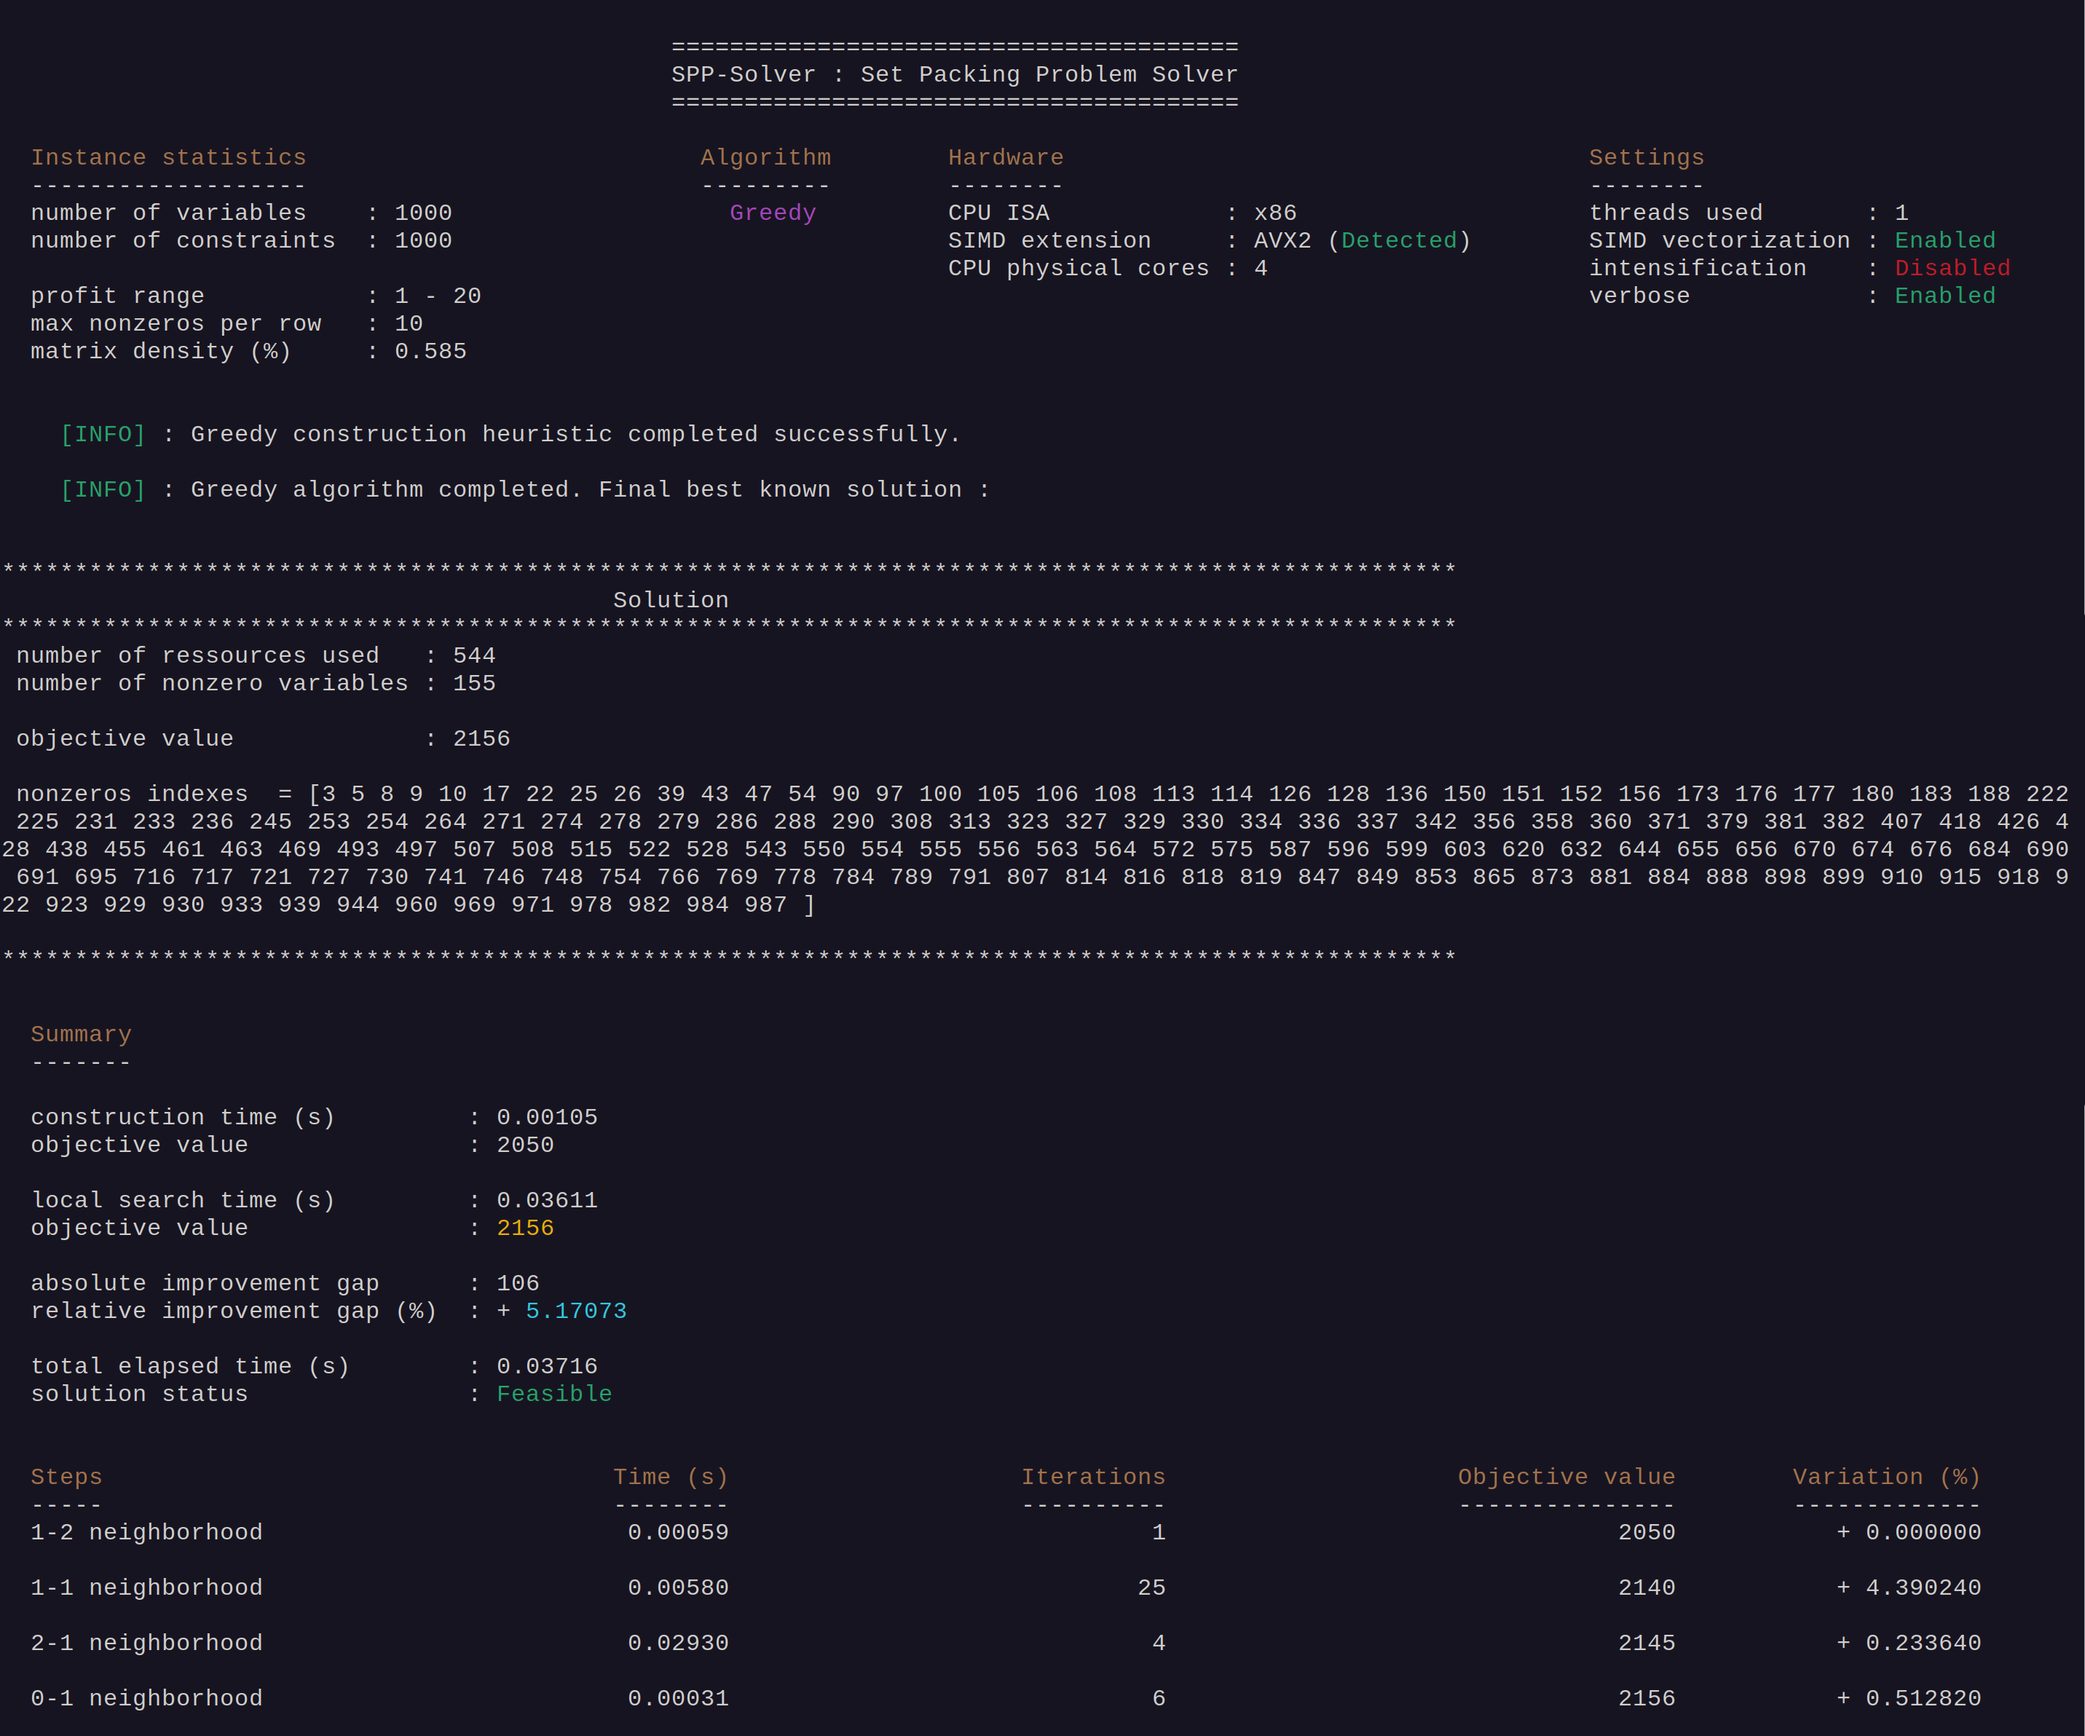
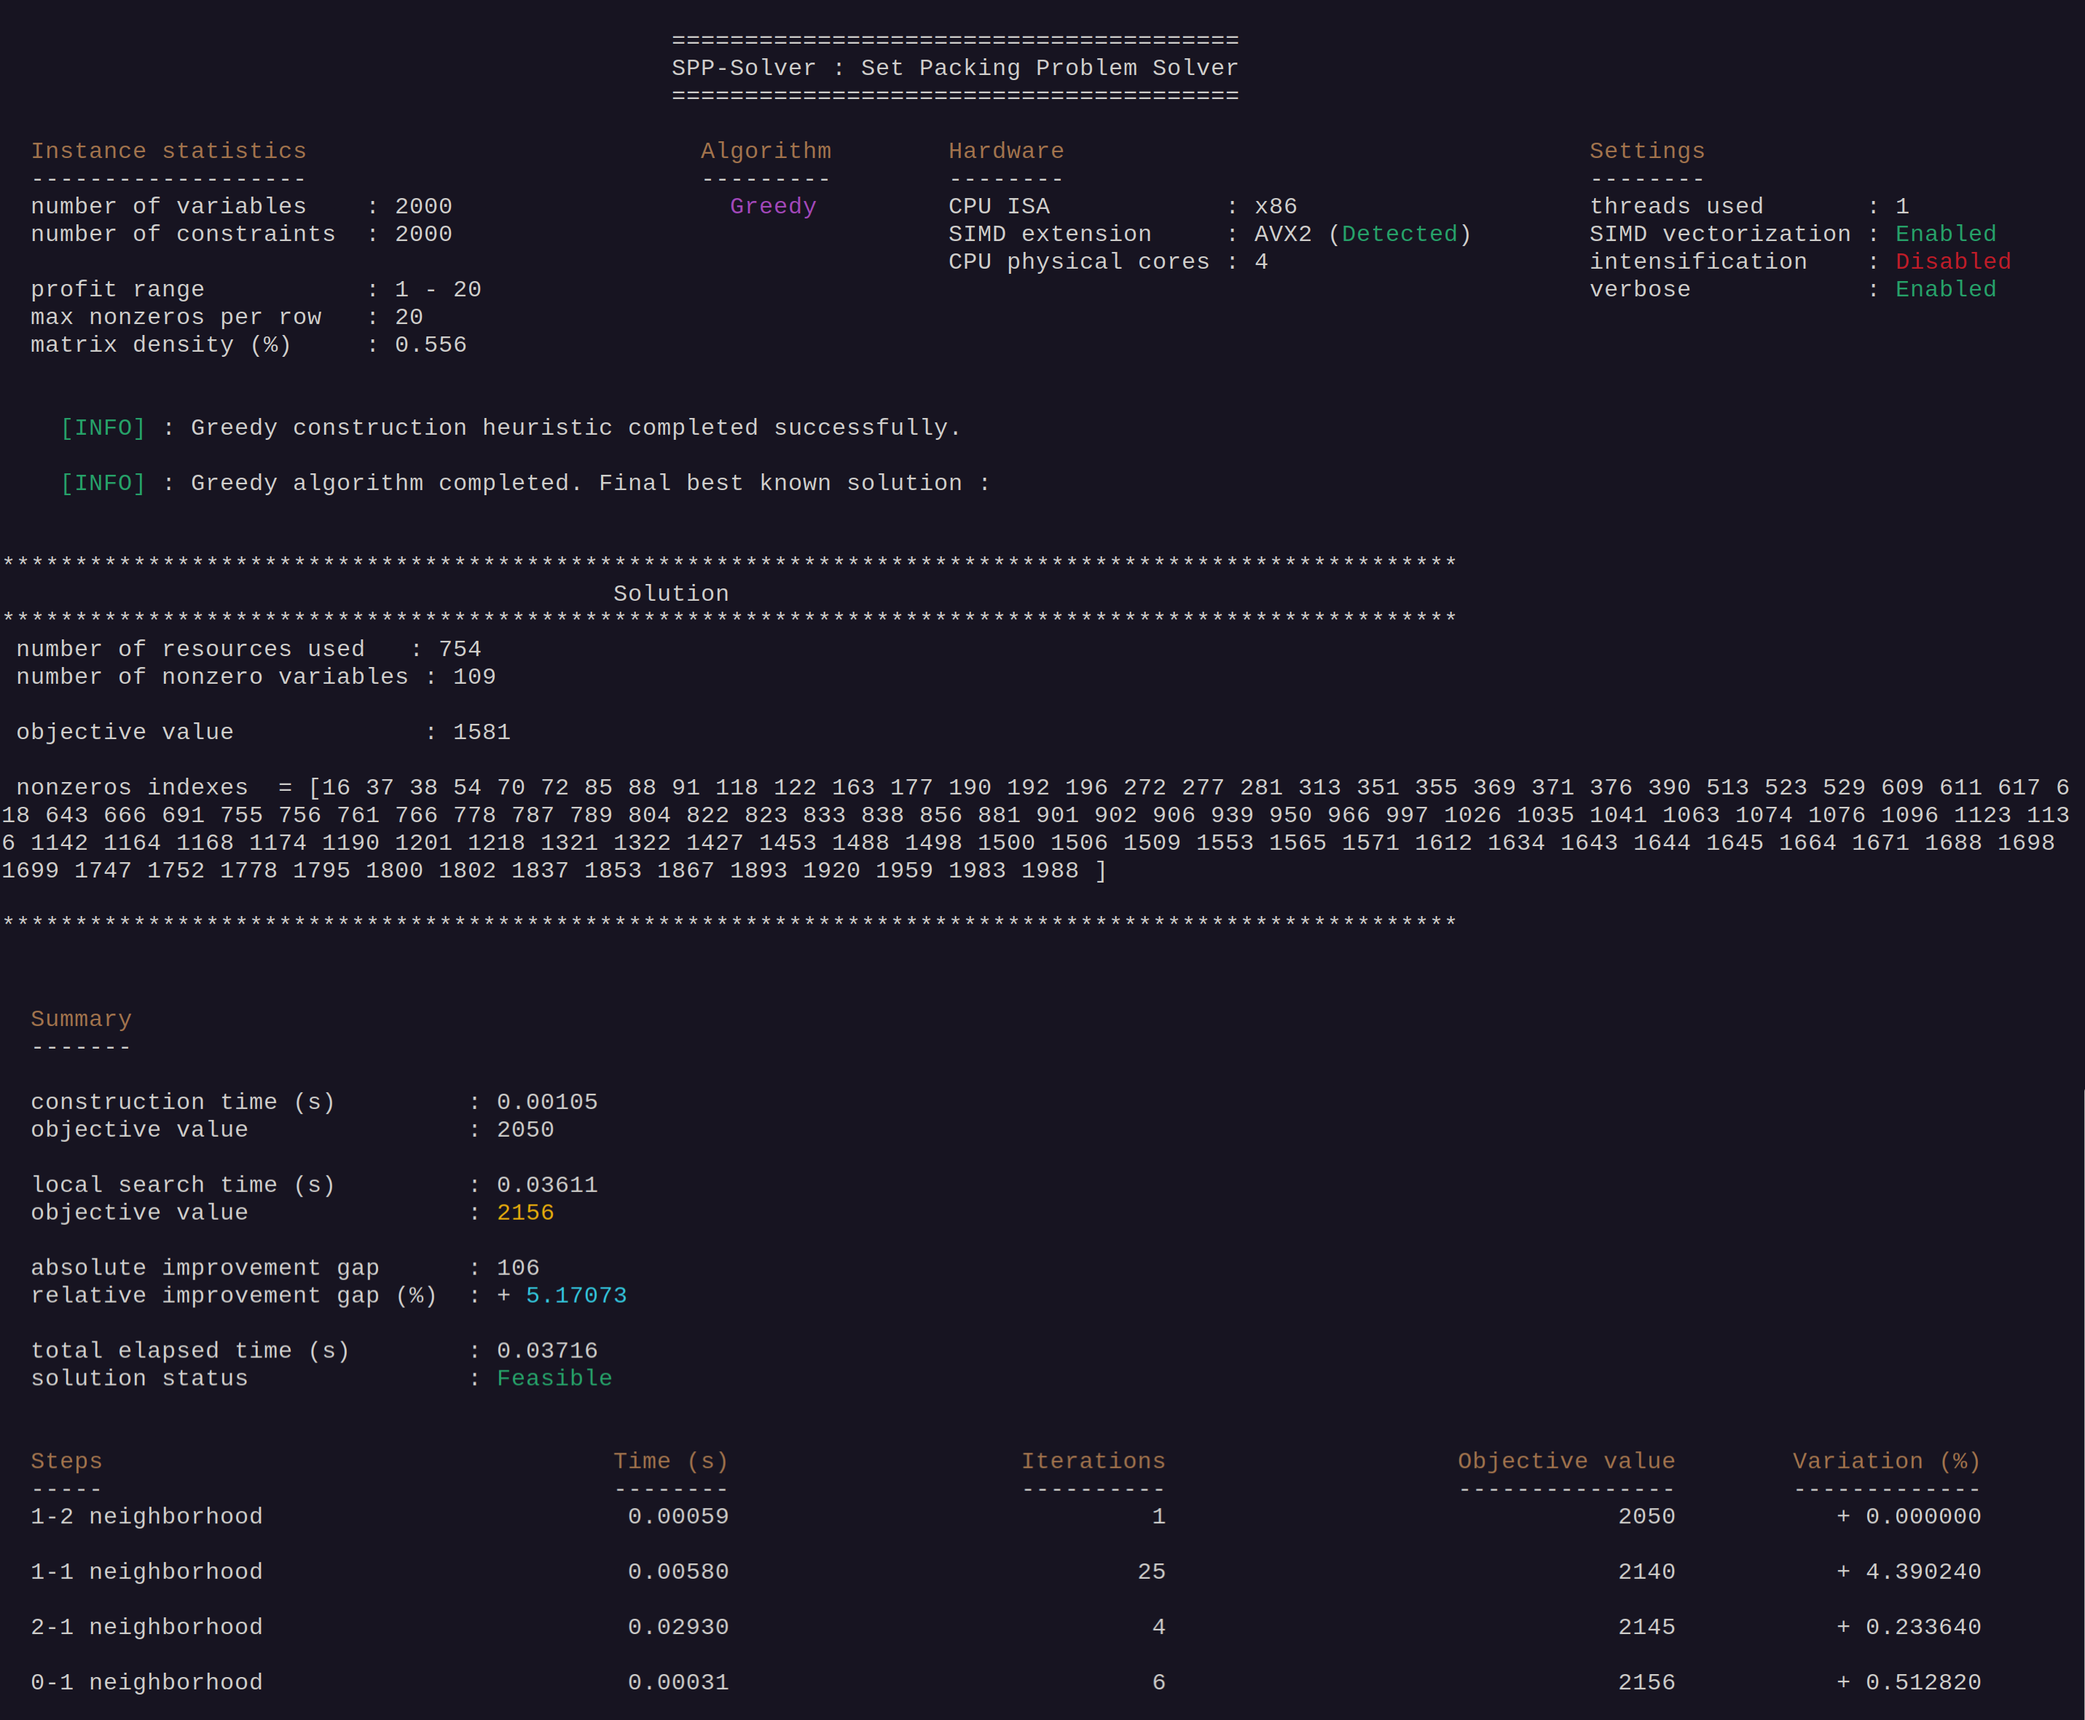
Update

diff --git a/src/dataStructures/Solution.cpp b/src/dataStructures/Solution.cpp
@@ -170,7 +170,7 @@
       std::cout << "\n" << std::string(100, '*') << "\n"
                 << std::setw(50) << std::right << "Solution" << "\n"
                 << std::string(100, '*') << "\n"
-                << " number of ressources used   : " << this->getNbConsumedResources() << "\n"
+                << " number of resources used   : " << this->getNbConsumedResources() << "\n"
                 << " number of nonzero variables : " << this->getNbNonZeroVars() << " \n\n"
                 << " objective value             : " << this->getObjectiveValue(instance) << "\n\n";
 

diff --git a/README.md b/README.md
@@ -51,7 +51,7 @@ Although the intensified strategy often yields better results on challenging cas
 Since both the decision variables and the constraint matrix are purely binary, the solver uses a **compact BitVector representation** to encode solutions and conflicts efficiently.
 This enables fast bitwise operations for feasibility checks and neighborhood evaluation.
 
-To further accelerate computation, the solver integrates **SIMD (Single Instruction, Multiple Data)** vectorization, **loop unrolling**, and **CPU multi‑threading**.
+To further accelerate computation, the solver integrates **SIMD (Single Instruction, Multiple Data)** vectorization, **loop unrolling** and **CPU multi‑threading**.
 
 These HPC techniques significantly reduce the cost of conflict detection and neighborhood exploration, especially on large and sparse SPP instances.
 
@@ -197,6 +197,8 @@ The executable is located in the **bin/** directory after installation.
 
 
 - **--verbose** (optional) : Prints neighborhood exploration details.
+
+- **--intensification** (optional) : Enables intensified VND local search.
 
 ![](docs/images/run_greedy.png)
 
